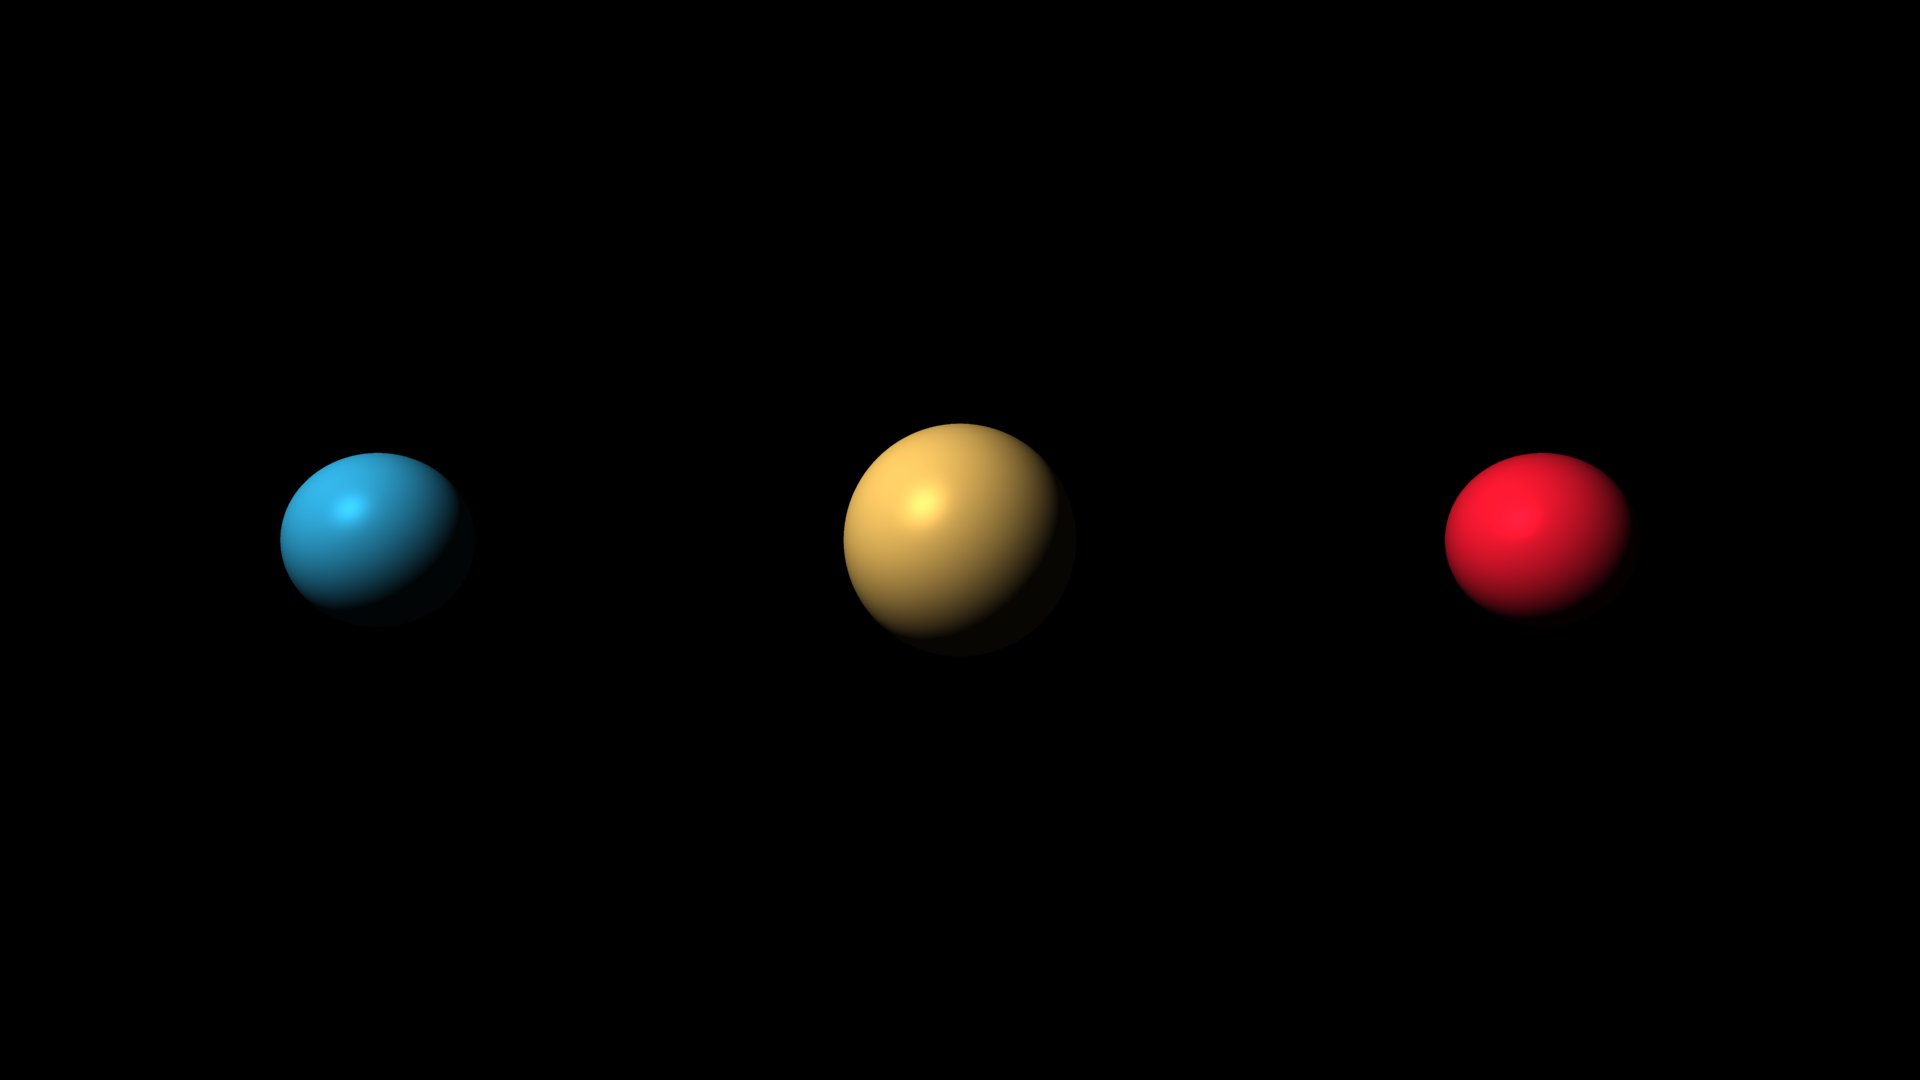
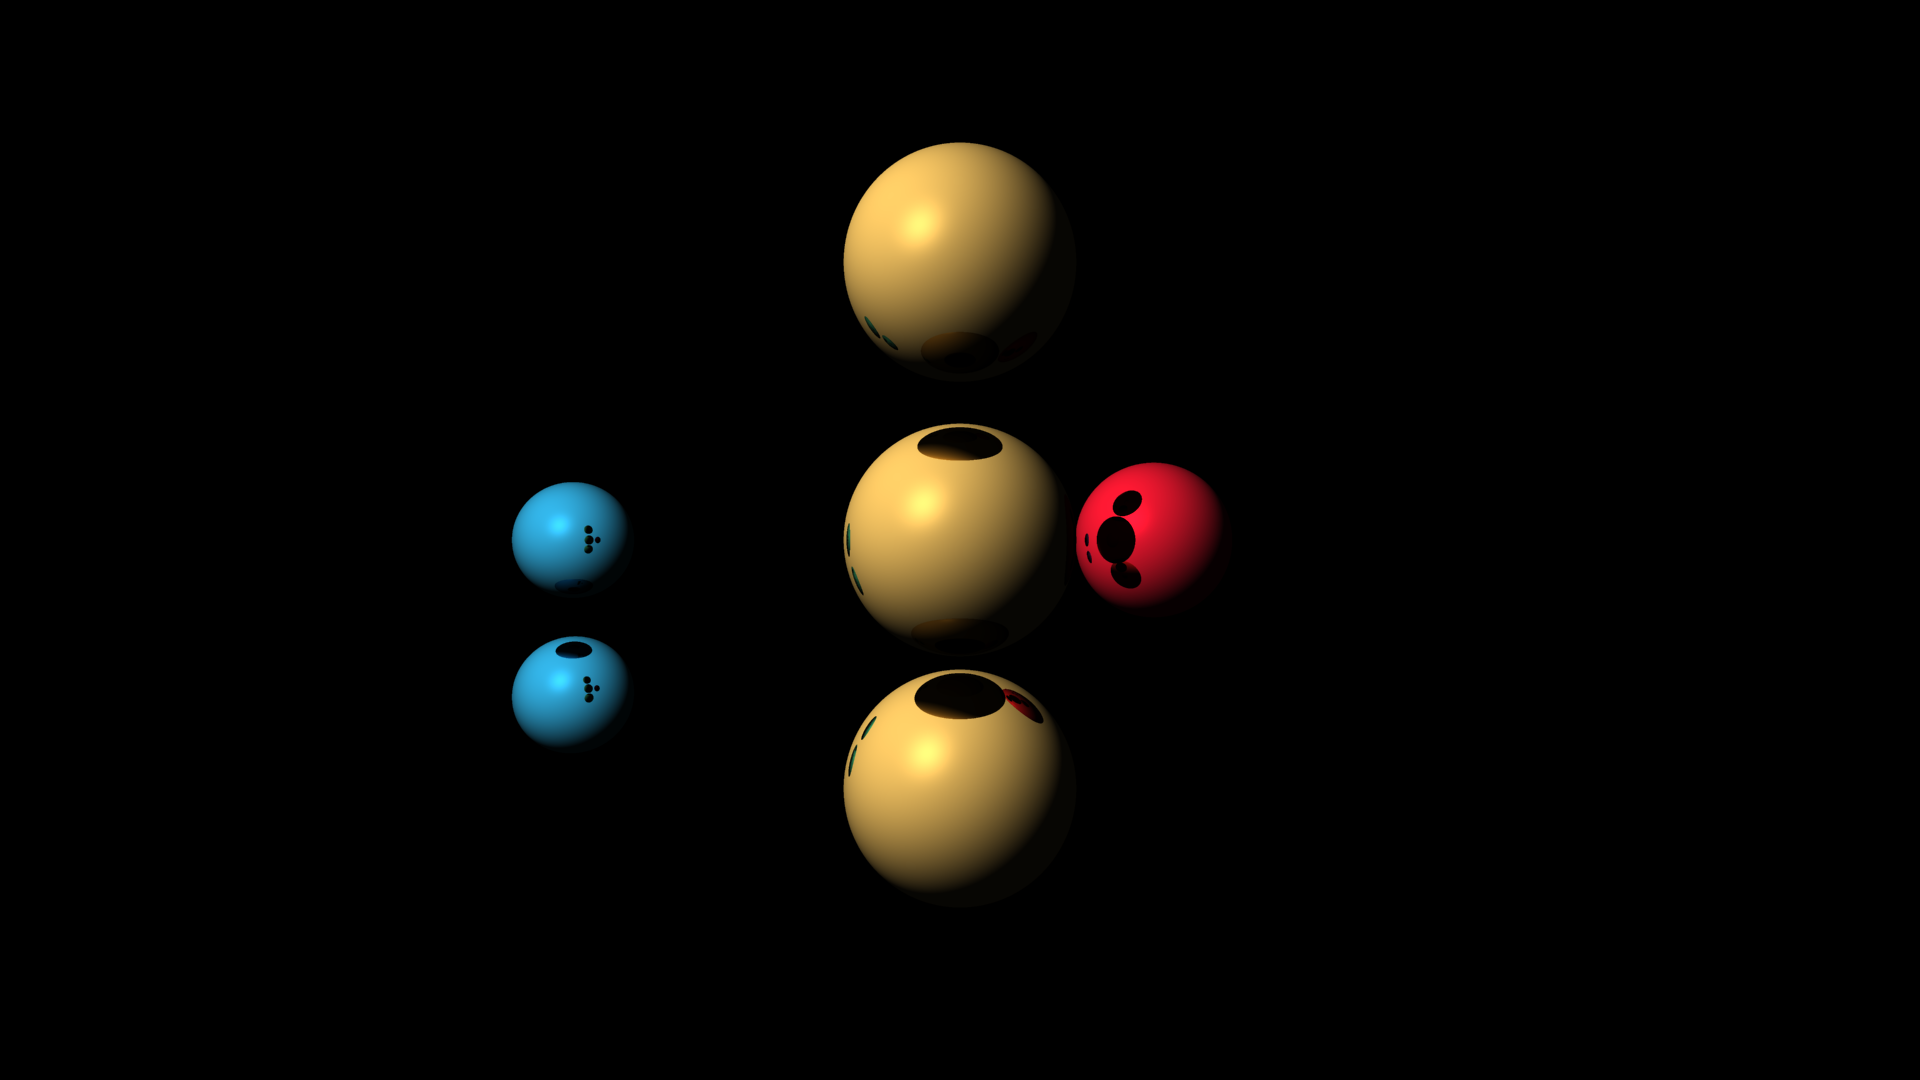
Implement reflection

diff --git a/src/ray.cpp b/src/ray.cpp
@@ -3,28 +3,101 @@
 Ray::Ray() { }
 
 Ray::Ray(vec3 pos, vec3 dir) {
+	this->pos = pos;
+	this->dir = dir;
+}
+
+vec3 Ray::cast(std::vector<std::unique_ptr<WorldObject>> &objects, std::vector<std::unique_ptr<Light>> &lights, int times) {
+	return cast(objects, lights, times, nullptr);
+}
+
+vec3 Ray::cast(std::vector<std::unique_ptr<WorldObject>> &objects, std::vector<std::unique_ptr<Light>> &lights, int times, WorldObject *ignore) {
+	if (times == 0) {
+		return vec3();
+	}
+
+	WorldObject *hitObject = nullptr;
+	vec3 color;
+	double t;
+
+	if (trace(hitObject, t, objects, ignore)) {
+		if (hitObject != nullptr) {
+			vec3 hitPoint = dir * t + pos;
+			vec3 normal = (hitPoint - hitObject->pos).normalize();
+
+			std::vector<std::unique_ptr<Light>>::iterator iter = lights.begin();
+			for (; iter != lights.end(); iter++) {
+				color += (*iter)->applyShading(hitObject->color, hitPoint, normal);
+			}
+
+			Ray reflectionRay(hitPoint, dir.normalize().reflect(normal));
+			vec3 reflectionColor = reflectionRay.cast(objects, lights, times - 1, hitObject);
+			if (reflectionColor.x != 0.0 && reflectionColor.y != 0.0 && reflectionColor.z != 0.0) {
+				return reflectionColor * color;
+			}
+		}
+	}
+
+	return color;
+}
+
+bool Ray::trace(WorldObject *&hitObject, double &t, std::vector<std::unique_ptr<WorldObject>> &objects, WorldObject *ignore) {
+	t = DBL_MAX;
+	std::vector<std::unique_ptr<WorldObject>>::iterator iter = objects.begin();
+
+	for (; iter != objects.end(); iter++) {
+		double tTmp = DBL_MAX;
+		if ((*iter)->intersects(*this, tTmp) && iter->get() != ignore && tTmp < t) {
+			t = tTmp;
+			hitObject = iter->get();
+		}
+	}
+
+	if (hitObject != nullptr) {
+		return true;
+	}
+
+	return false;
+}
+
+
+
+/*
+#include "ray.h"
+
+Ray::Ray() { }
+
+Ray::Ray(vec3 pos, vec3 dir) {
     this->pos = pos;
     this->dir = dir;
 }
 
-vec3 Ray::cast(std::vector<std::unique_ptr<WorldObject>> &objects, std::vector<std::unique_ptr<Light>> &lights) {
+vec3 Ray::cast(std::vector<std::unique_ptr<WorldObject>> &objects, std::vector<std::unique_ptr<Light>> &lights, int times) {
+	if (times == 0) {
+		return vec3();
+	}
+
     const WorldObject *hitObject = nullptr;
     vec3 color;
     double t;
 
-    if (trace(hitObject, t, objects)) {
-        if (hitObject != nullptr) {
-            vec3 hitPoint = dir * t + pos;
-            vec3 normal = (hitPoint - hitObject->pos).normalize();
+    if (trace(hitObject, t, objects) && hitObject != nullptr) {
+        vec3 hitPoint = dir * t + pos;
+        vec3 normal = (hitPoint - hitObject->pos).normalize();
 
-            std::vector<std::unique_ptr<Light>>::iterator iter = lights.begin();
-            for (; iter != lights.end(); iter++) {
-                color += (*iter)->applyShading(hitObject->color, hitPoint, normal);
-            }
+        std::vector<std::unique_ptr<Light>>::iterator iter = lights.begin();
+        for (; iter != lights.end(); iter++) {
+            color += (*iter)->applyShading(hitObject->color, hitPoint, normal);
         }
+
+		Ray reflectionRay(hitPoint + normal, dir.reflect(normal).normalize());
+		vec3 reflectionColor = reflectionRay.cast(objects, lights, times - 1);
+		if (reflectionColor.x != 0.0 && reflectionColor.y != 0.0 && reflectionColor.z != 0.0) {
+			return color * reflectionColor;
+		}
     }
 
-    return color;
+	return color;
 }
 
 bool Ray::trace(const WorldObject *&hitObject, double &t, std::vector<std::unique_ptr<WorldObject>> &objects) {
@@ -45,3 +118,4 @@ bool Ray::trace(const WorldObject *&hitObject, double &t, std::vector<std::uniqu
 
     return false;
 }
+*/

diff --git a/src/ray.h b/src/ray.h
@@ -15,16 +15,50 @@ class Light;
 
 class Ray {
 public:
+	vec3 pos;
+	vec3 dir;
+
+	Ray();
+	Ray(vec3 pos, vec3 dir);
+	vec3 cast(std::vector<std::unique_ptr<WorldObject>> &objects, std::vector<std::unique_ptr<Light>> &lights, int times);
+	bool trace(WorldObject *&hitObject, double &t, std::vector<std::unique_ptr<WorldObject>> &objects, WorldObject *ignore);
+
+private:
+	vec3 cast(std::vector<std::unique_ptr<WorldObject>> &objects, std::vector<std::unique_ptr<Light>> &lights, int times, WorldObject *ignore);
+};
+
+#endif // RAY_H
+
+
+
+/*
+#ifndef RAY_H
+#define RAY_H
+
+#include <vector>
+#include <memory>
+#include <cstdlib>
+#include <iterator>
+#include <float.h>
+
+#include "vec3.h"
+#include "light.h"
+
+class WorldObject;
+class Light;
+
+class Ray {
+public:
     vec3 pos;
     vec3 dir;
 
     Ray();
     Ray(vec3 pos, vec3 dir);
-    vec3 cast(std::vector<std::unique_ptr<WorldObject>> &objects, std::vector<std::unique_ptr<Light>> &lights);
+    vec3 cast(std::vector<std::unique_ptr<WorldObject>> &objects, std::vector<std::unique_ptr<Light>> &lights, int times);
     bool trace(const WorldObject *&hitObject, double &t, std::vector<std::unique_ptr<WorldObject>> &objects);
 
 private:
-    vec3 applyShading(std::vector<std::unique_ptr<Light>> &lights, vec3 color, vec3 normal, vec3 viewDir);
 };
 
 #endif // RAY_H
+*/

diff --git a/src/main.cpp b/src/main.cpp
@@ -12,8 +12,11 @@
 int main() {
     std::vector<std::unique_ptr<WorldObject>> objects;
     objects.push_back(std::unique_ptr<WorldObject>(new Sphere(vec3(0.0, 0.0, -8.0), vec3(1.0, 0.8, 0.4), 0.8)));
-    objects.push_back(std::unique_ptr<WorldObject>(new Sphere(vec3(4.0, 0.0, -8.0), vec3(1.0, 0.1, 0.2), 0.6)));
-    objects.push_back(std::unique_ptr<WorldObject>(new Sphere(vec3(-4.0, 0.0, -8.0), vec3(0.2, 0.7, 0.9), 0.6)));
+	objects.push_back(std::unique_ptr<WorldObject>(new Sphere(vec3(0.0, -1.7, -8.0), vec3(1.0, 0.8, 0.4), 0.8)));
+	objects.push_back(std::unique_ptr<WorldObject>(new Sphere(vec3(0.0, 1.9, -8.0), vec3(1.0, 0.8, 0.4), 0.8)));
+    objects.push_back(std::unique_ptr<WorldObject>(new Sphere(vec3(1.5, 0.0, -9.0), vec3(1.0, 0.1, 0.2), 0.6)));
+    objects.push_back(std::unique_ptr<WorldObject>(new Sphere(vec3(-4.0, 0.0, -12.0), vec3(0.2, 0.7, 0.9), 0.6)));
+	objects.push_back(std::unique_ptr<WorldObject>(new Sphere(vec3(-4.0, -1.6f, -12.0), vec3(0.2, 0.7, 0.9), 0.6)));
 
     std::vector<std::unique_ptr<Light>> lights;
     lights.push_back(std::unique_ptr<Light>(new GlobalLight(vec3(-6.0, 6.0, 0.0), vec3(1.0, 1.0, 1.0))));

diff --git a/src/raytracer.cpp b/src/raytracer.cpp
@@ -38,7 +38,7 @@ void RayTracer::render(std::vector<std::unique_ptr<WorldObject>> &objects,
 					rayDir = rayDir.normalize();
 
                     Ray ray(rayOrig, rayDir);
-                    aaData.push_back(ray.cast(objects, lights));
+                    aaData.push_back(ray.cast(objects, lights, 3));
 				}
 			}
 
